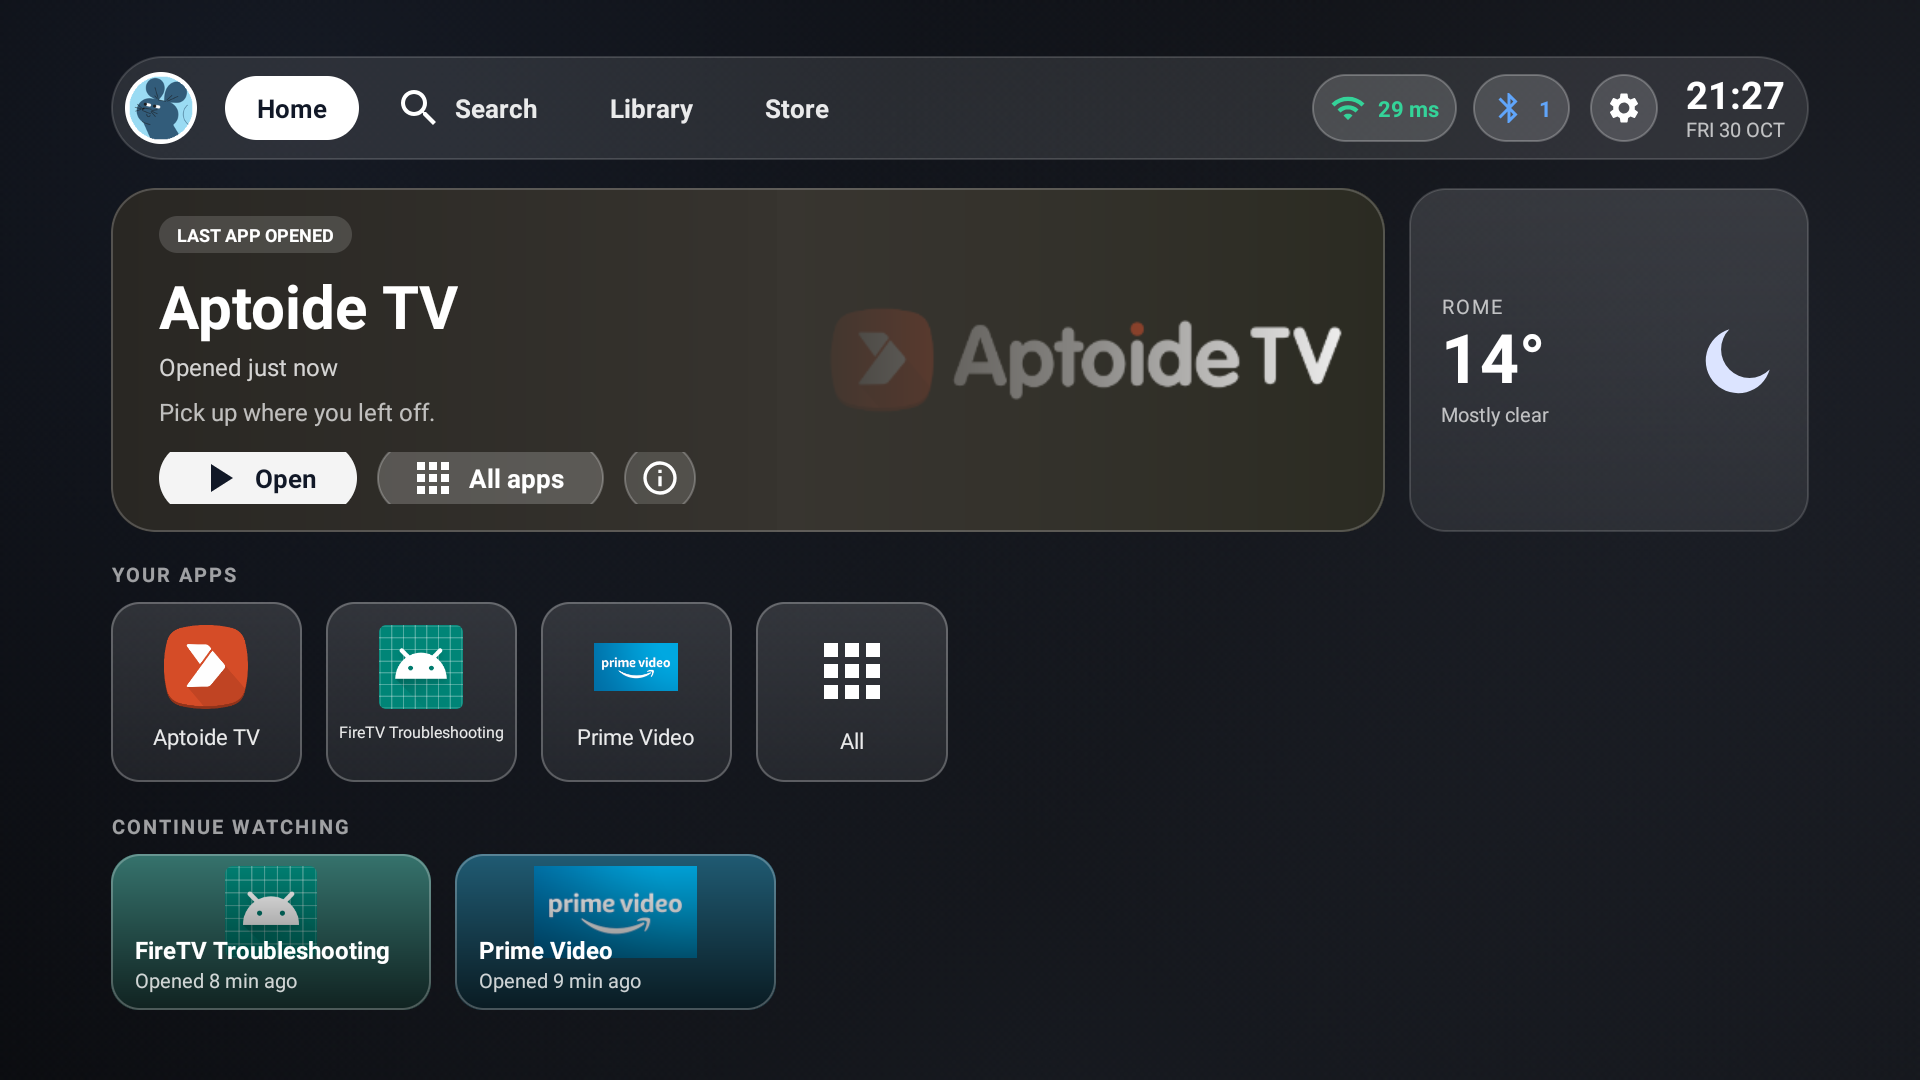
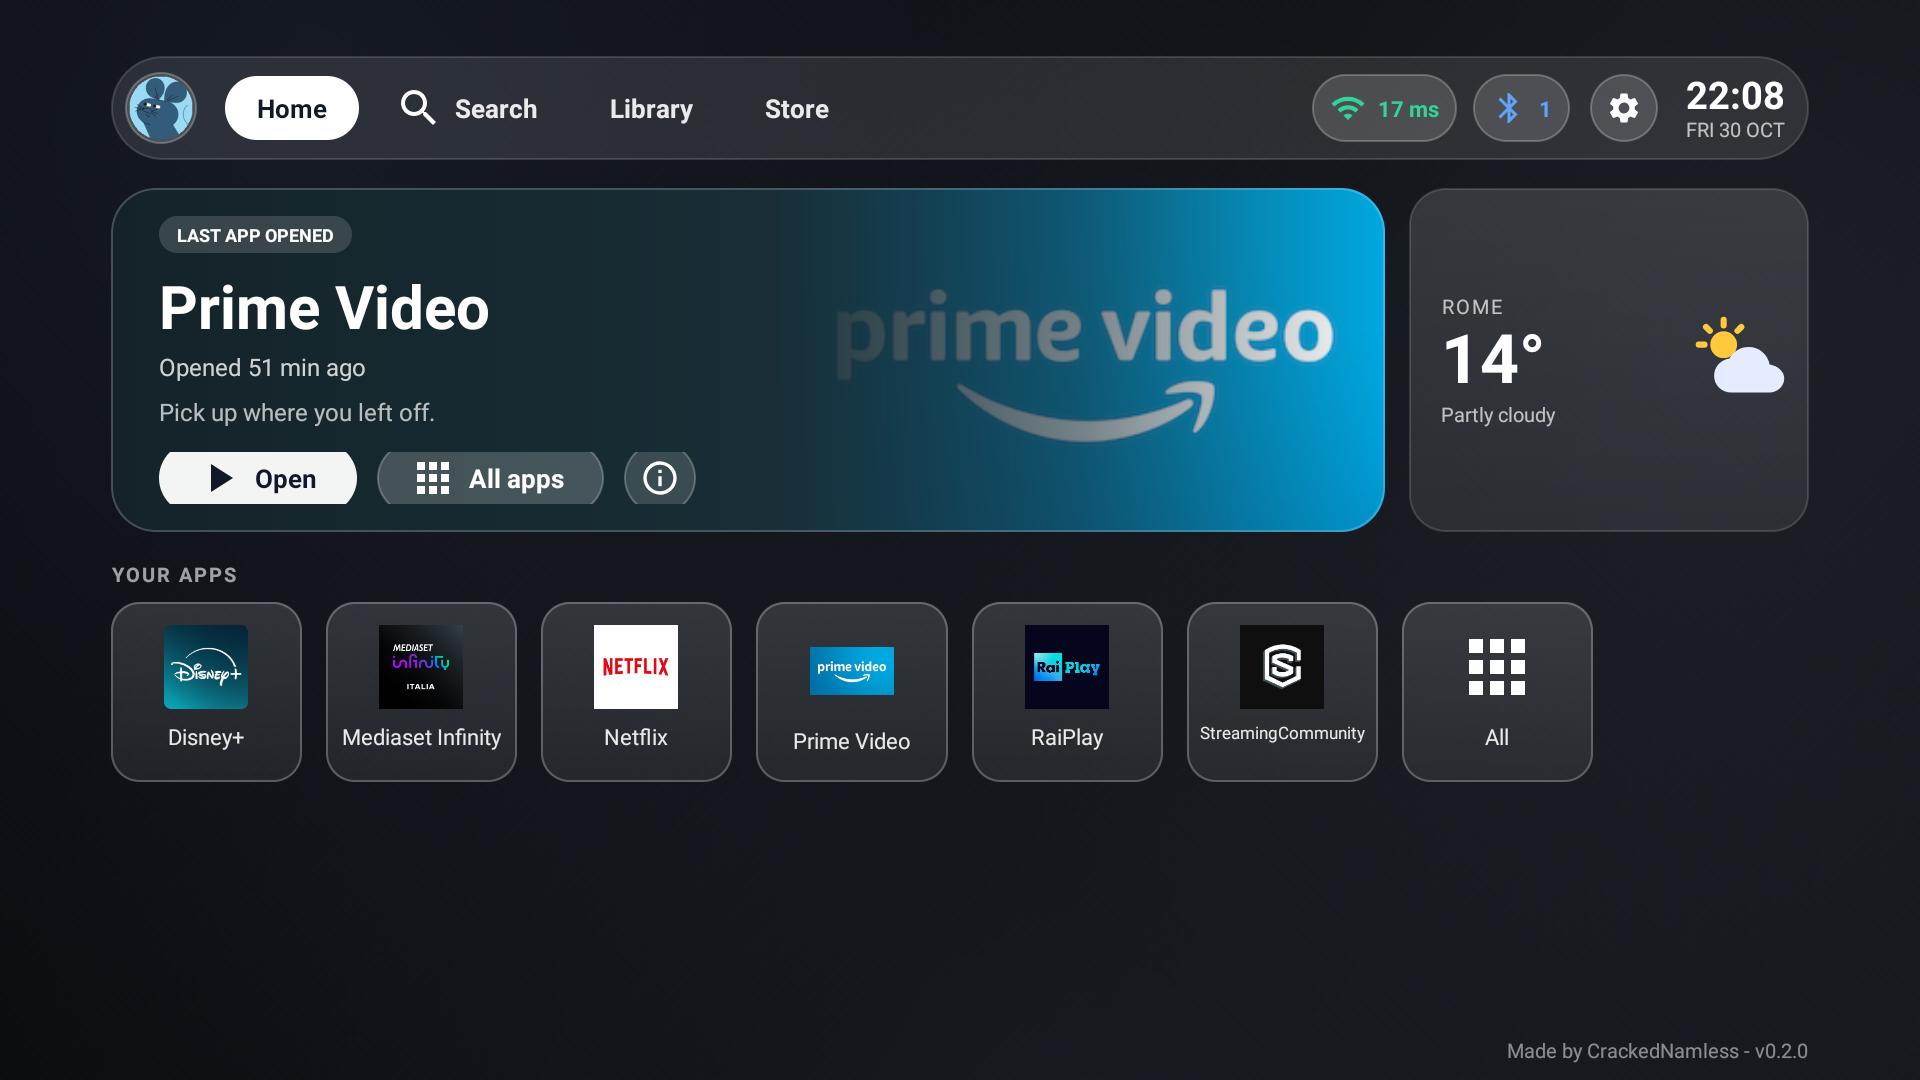
Home: show 'Made by CrackedNamless - vX.Y.Z' bottom right; retake Home screenshot

diff --git a/app/src/main/java/com/crackednamless/fireos/HomeScreen.java b/app/src/main/java/com/crackednamless/fireos/HomeScreen.java
@@ -50,6 +50,7 @@ public final class HomeScreen {
 
     private final Context context;
     private final PackageManager pm;
+    private final TextView credit;
     private final Host host;
 
     private final View homeContent;
@@ -201,6 +202,8 @@ public final class HomeScreen {
         search.setOnClickListener(v -> host.openSearch());
         View tabStore = root.findViewById(R.id.tab_store);
         tabStore.setOnClickListener(v -> openStore());
+        credit = root.findViewById(R.id.credit);
+        credit.setText(context.getString(R.string.made_by, versionName()));
         View settings = root.findViewById(R.id.settings);
         settings.setOnClickListener(v -> host.openSettings());
         settings.setOnLongClickListener(v -> {
@@ -355,8 +358,17 @@ public final class HomeScreen {
         return libraryShown;
     }
 
+    private String versionName() {
+        try {
+            return pm.getPackageInfo(context.getPackageName(), 0).versionName;
+        } catch (PackageManager.NameNotFoundException e) {
+            return "";
+        }
+    }
+
     public void showLibrary(boolean show) {
         libraryShown = show;
+        credit.setVisibility(show ? View.GONE : View.VISIBLE);
         homeContent.setVisibility(show ? View.GONE : View.VISIBLE);
         library.setVisibility(show ? View.VISIBLE : View.GONE);
         tabHome.setSelected(!show);

diff --git a/CHANGELOG.md b/CHANGELOG.md
@@ -13,6 +13,7 @@ All notable changes to this project are documented here. Each release on GitHub 
 - **Power button.** The remote's power button puts the Fire TV in standby again. The log line that the real remote produces was not being recognised, so the key was ignored.
 
 ### Changed
+- The Home shows "Made by CrackedNamless - vX.Y.Z" in the bottom right corner (localized, version read from the app).
 - The Home screenshot in the README shows the new top bar.
 
 ## [0.1.1] - 2026-10-30
